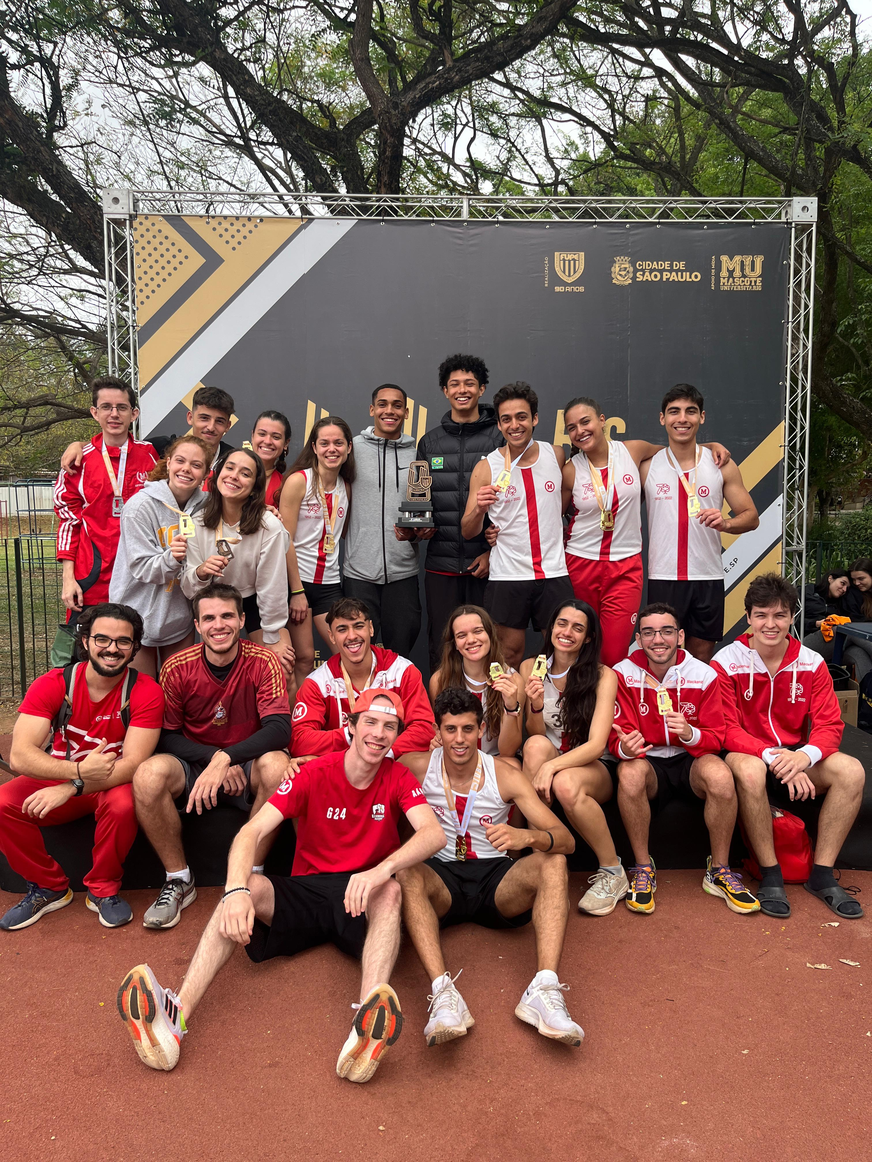
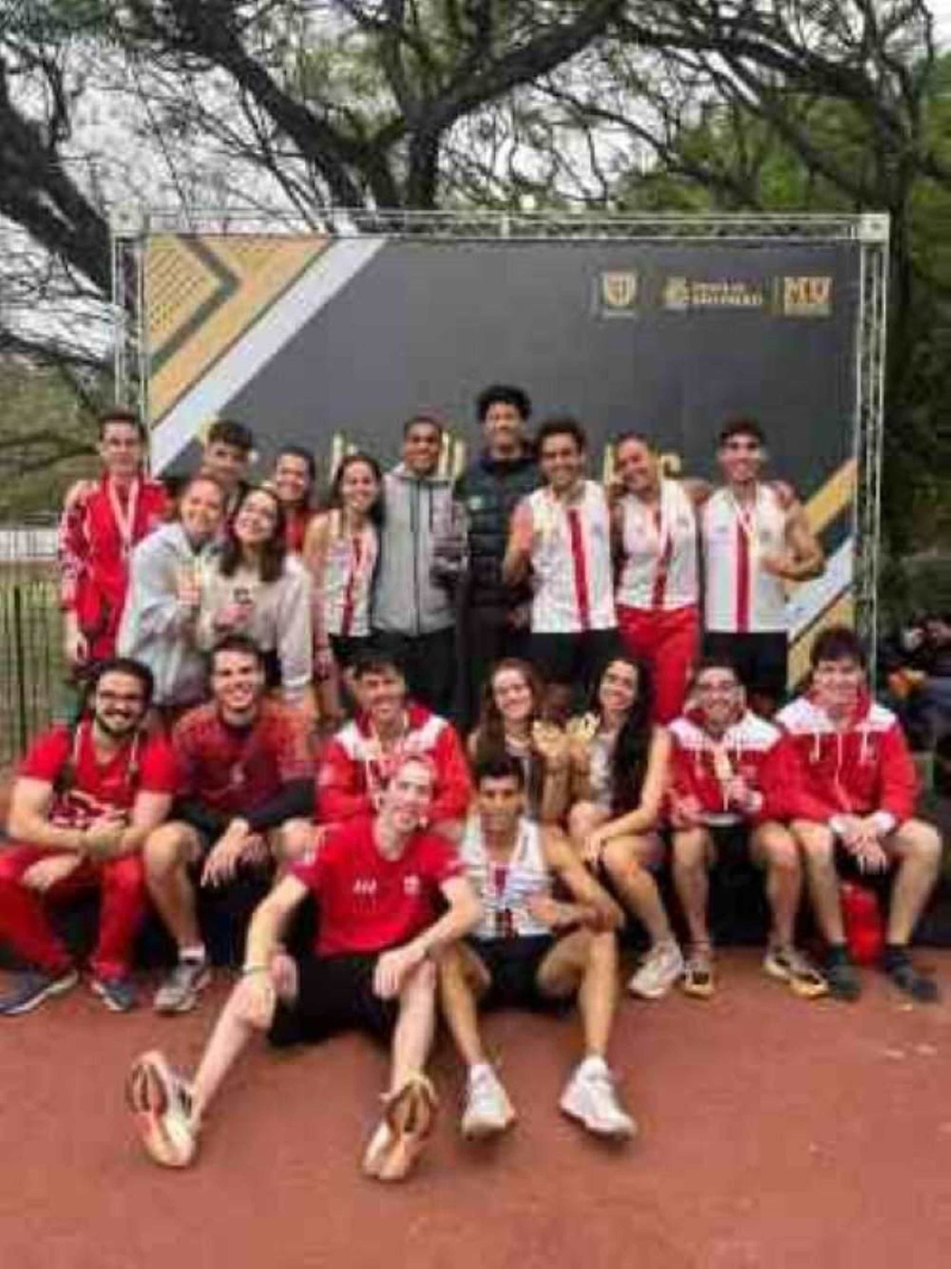
Ajustes nas imagens do site

diff --git a/web-data-viz/public/historia.html b/web-data-viz/public/historia.html
@@ -102,7 +102,7 @@
             </div>
             <div class="imagens">
                 <div class="pilar">
-                    <img src="./assets/img/são silvestre.jpg" alt="Família">
+                    <img src="./assets/img/maratona3.jpg" alt="Família">
                     <h3>Família</h3>
                     <p>A família representa o alicerce emocional na jornada de qualquer indivíduo, e no esporte não é diferente. Para mim, o apoio familiar foi crucial desde o início. <br> O incentivo para participar da São Silvestre, mesmo parecendo um desafio distante, veio desse núcleo. A confiança depositada em mim, mesmo quando a ideia de buscar uma bolsa esportiva surgiu como uma alternativa inesperada, foi fundamental para que eu me sentisse seguro em perseguir esse novo caminho. <br><br>
                     A presença da minha família na linha de chegada da minha primeira maratona, compartilhando a emoção e celebrando a conquista, selaram a importância desse pilar. Eles representam a segurança emocional, o incentivo nos momentos de dúvida e a celebração nas vitórias, criando um ambiente de apoio incondicional essencial para perseverar diante dos desafios da corrida e da vida. <br><br>

diff --git a/web-data-viz/public/dashboard/dashboard.html b/web-data-viz/public/dashboard/dashboard.html
@@ -69,7 +69,7 @@
     var idUsuario = sessionStorage.ID_USUARIO;
 
     window.onload =
-        inicializarDashboard();
+    inicializarDashboard();
     dadosFeedCorrida();
     dadosUltimaCorrida();
     carregarCorridasParaGrafico(); // gráfico de pace
